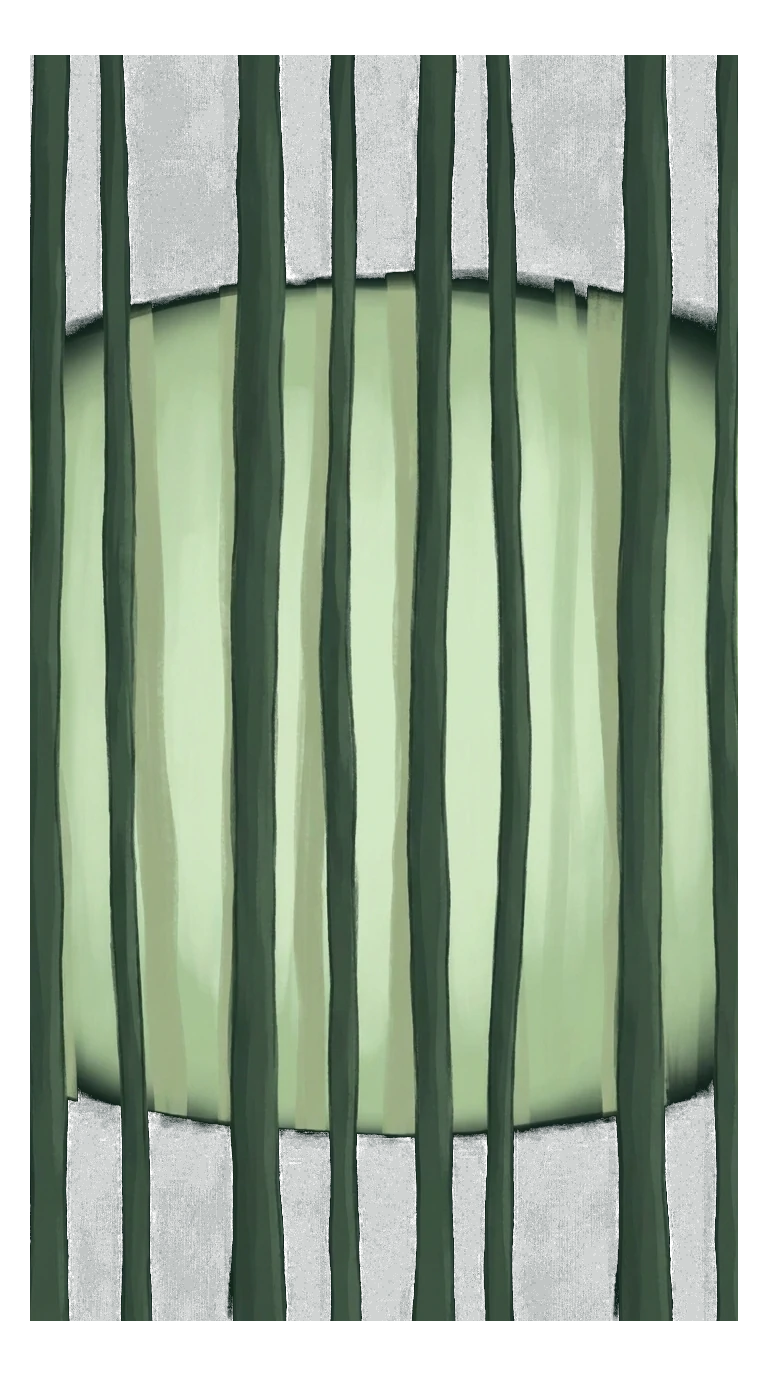
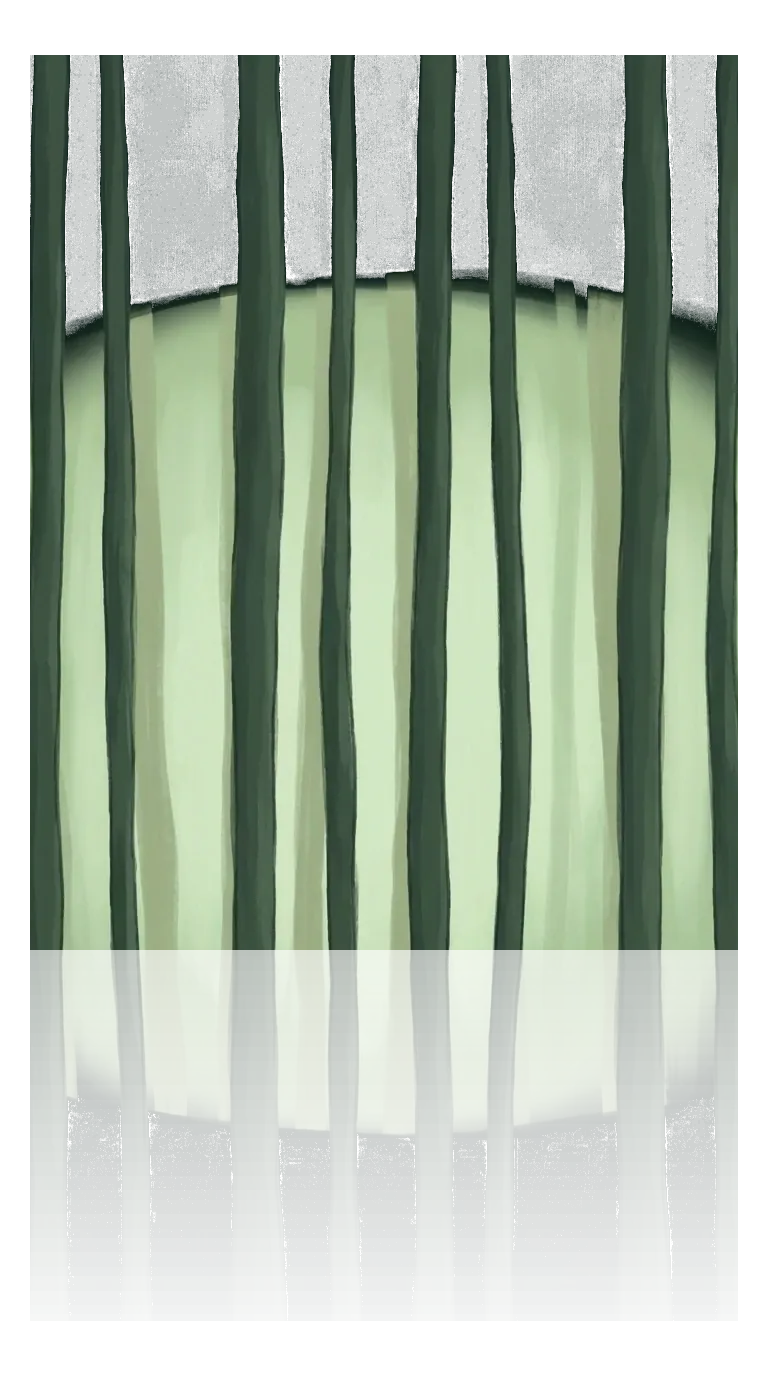
feat(assets): v4 视觉五层复验合格入包 + T05 收尾文档对齐
- v4 alpha 内容约束版替换 v3 入包 webp（381→260 KB）：
  trunks 底部 y>995 alpha ≤ 主体 max×35%、clearing 中带限位+羽化
- ZCode 程序化复验四项全过：无棋盘格（交替率 x56%/y32%、频谱峰值
  为整幅渐变）、四边 alpha 全 0 无白边/矩形底、层间 r∈[-0.22,+0.30]
  无重复、785m 合成边缘亮度 7.2≈void；复验数据录 ASSETS.md §一
- 模拟器 800m 全程走查证据入档 §20.9：检查点 0/102/268/427/676/782m、
  静默起点、80m 脚步解锁（piid started ~600ms 间隔）、240/600m 双
  MediaPlayer、停走逐像素冻结、来电中断已暂停+继续走、通关三播放器
  即时释放
- 修正过期表述：README/DEVELOPMENT §0/§20.8 注记/handoff 基线
  （真实音频已入库、v4 已复验、M1 因真人验收未做不宣布完成）

Changed region(s): [[0.0312, 0.6875, 0.9688, 0.9688]]

diff --git a/DEVELOPMENT.md b/DEVELOPMENT.md
@@ -13,23 +13,23 @@
 
 ---
 
-## 0. 当前进度（仓库核查，2026-10-12 · T04 后）
+## 0. 当前进度（仓库核查，2026-10-12 · T05 收尾后）
 
-**结论：T01–T04 已合入 main（最新核查 commit `808d872`，Actions 全绿）。** 森林 800 m 虚走可通关/放弃；实走与其他场景诚实标「暂未开放」。音频/振动仍为 stub，真实森林感官属 **T05**。以下依据源码与 CI，不把 HTML demo 当 Android 完成证据。
+**结论：T01–T05 已合入 main（最新核查见 §20.8 T05 记录，Actions 全绿）。** 森林 800 m 虚走可通关/放弃，感官层为真实引擎 + 真实素材；实走与其他场景诚实标「暂未开放」。标准 800 m 真人手动验收、真机耳机/来电与视觉复验未执行前，**M1 不宣布完成**。以下依据源码与 CI，不把 HTML demo 当 Android 完成证据。
 
 | 模块 | 已有内容 / 源码证据 | 与目标的差距 |
 | --- | --- | --- |
 | 工程与导航 | Home → 模式选择 → 会话 → 结果；Navigation / DataStore / SessionViewModel | 实走入口未开放；雨林/城市未进主流程 |
-| 场景 | schema v2 JSON（森林/沙漠/夜径）；SceneValidator；Loading/Ready/Error | 雨林/城市配置与入口未齐；素材多为显式开发占位 |
-| 会话 | `VirtualWalkController` + comfort_v1 摇杆、门禁、相位、ForestShell 黑幕起笔；后台暂停不偷跑 | 真实音视未接；地形越坎属 T07 |
+| 场景 | schema v2 JSON（森林/沙漠/夜径）；SceneValidator；Loading/Ready/Error | 雨林/城市配置与入口未齐；森林素材已真实化，沙漠/夜径仍显式占位 |
+| 会话 | `VirtualWalkController` + comfort_v1 摇杆、门禁、相位、ForestShell 黑幕起笔；后台暂停不偷跑 | 地形越坎属 T07 |
 | 结果页 | Completed / Abandoned，展示实际米数 | 用时折叠等打磨可继续 |
-| 感官 | 相位调度已跑；`AudioMixer` / `HapticEngine` 仍日志 stub | **T05**：真实 loop/脚步/振动与生命周期 |
-| 设置 | 振动、节奏提示、减少动效、按住前进、手动暂停等已接入偏好 | 步长/GPS 等属后续；静默秒数旧机制已移除 |
-| 实走与生命周期 | T04 不进入假计步会话 | **T06**：计步、权限、前台服务 |
-| 验证 | JVM 单测覆盖领域与虚走集成；GitHub Actions 打包/lint/test | 真机满距手测与耳机/来电属 T05/T09「待验证」 |
+| 感官 | `SensoryCoordinator` + `AndroidSensoryBackend`（SoundPool 脚步/MediaPlayer 循环/Vibrator）；森林真实素材入库（`REQUIRE_REAL_ASSETS` 放行）；焦点/耳机断连中断边界 + 可注入单测 | 振动待真机验证（模拟器无 HAL）；视觉五层待 MiniMax 修复批次复验 |
+| 设置 | 振动、节奏提示、减少动效、按住前进、手动暂停等已接入偏好 | 步长/GPS 等属后续 |
+| 实走与生命周期 | T04 起不进入假计步会话 | **T06**：计步、权限、前台服务 |
+| 验证 | JVM 单测覆盖领域、虚走集成与播放边界；GitHub Actions 打包/lint/test；模拟器 800 m 全程走查通过 | 真人标准 800 m 手动验收与真机耳机/来电属「待验证」 |
 | 设计包 | `design/` PRD 级设计 + HTML demo | demo 不接 Android 距离引擎；验收以本文件 + design 为准 |
 
-**下一交付物**：T05 森林真实音视素材与感官生命周期（达成 M1 可听体验）。其后 T06 实走、T07 恢复/地形/雨林、T08 四景、T09 真机与内测。
+**下一交付物**：T06 实走（计步、权限、前台服务）。T05 遗留待办：标准 800 m 手动验收、真机耳机/来电验证、MiniMax 修复批次视觉复验（见 ASSETS.md）。
 
 ---
 
@@ -773,7 +773,7 @@ stateDiagram-v2
 - [x] 森林 VisualShell 用渐变/剪影按 `fadeMeters` 展开；首版平地 + 缓坡，自动跳随后接入（T04+边界修复：程序剪影/渐变六层，opacity 严格来自 SensoryState；§5.7 地形速度系数含 1.5m 过渡已接入；gap_hop 按 T07 降级；MiniMax 第二批 3 层（tree_trunks/light_shows/clearing）验收合格已接入，其余层程序降级，见 ASSETS.md）
 - [x] 通关/放弃分结果；独立长按区 1.5 s + 取消反馈；返回键确认；米数可信、用时折叠（T04+边界修复：长按用单调帧时间、完成后松手不弹框、无障碍点击动作；模拟器实测放弃流程与结果页）
 - [x] 删除静默秒数设置；振动、节奏提示、减少动效、按住前进优先接入（T04：silenceSeconds/SessionClock 已删；四开关入设置页；按住前进持续按住同曲线同门禁）
-- [ ] 先保留音频 stub 验规则，再接森林真实环境 loop、步伐同步音效/振动；补音频焦点与耳机断连处理（T05：**机制已完成**——SensoryCoordinator 步伐节奏/停走冻结/everyNSteps/终态释放 + SoundPool/MediaPlayer/Vibrator 真实引擎 + 音频焦点与耳机断连暂停（不自动恢复行走），可注入单测；**真实音频素材未取得**，占位层静默跳过，见 ASSETS.md——素材入库前不算完成）
+- [ ] 先保留音频 stub 验规则，再接森林真实环境 loop、步伐同步音效/振动；补音频焦点与耳机断连处理（T05+收尾：**机制与素材均已完成**——SensoryCoordinator 步伐节奏/停走冻结/everyNSteps/终态释放 + SoundPool/MediaPlayer/Vibrator 真实引擎；播放边界可注入单测（焦点被拒不得恢复、中断后重申请、暂停停活跃脚步流、加载失败诊断、终态吸收迟到回调等 13 项）；森林真实素材入库：落叶脚步 ×6 + 虫鸣/远鸟无缝循环，CC0/CC BY 授权与 §14.1 处理记录见 ASSETS.md，`REQUIRE_REAL_ASSETS` 放行；音频焦点/耳机断连暂停且不自动恢复行走，模拟器来电实测「已暂停 + 继续走」新交互。**此条暂不勾选**：脚步振动模拟器无 HAL 待真机验证，且 M1 退出条件要求的标准 800 m 真人手动验收未执行——证据齐备前不宣布完成）
 - [x] 建 `ASSETS.md`：路径、来源、授权、处理规格与占位状态（T05：已建，含 MiniMax 首批视觉素材逐层验证记录与音频素材需求规格）
 
 **退出条件**：普通用户能完成一次森林 800 m 虚走；停走不涨距、不长景色；拉满慢于中段；未满结束为放弃；通关只触发一次；首页/后台返回不丢失或偷跑。至少有一版完整可听的森林体验供 M2 前体验访谈。
@@ -977,7 +977,7 @@ P0 = 下一闭环必需；P1 = 完整 MVP 必需、在闭环后交付；P2 = 有
 
 - **schema v2 落地**：`domain/scene/` 新增 `SceneConfig`（模型）、`SceneJsonParser`（kotlinx.serialization JsonElement 手写提取，带字段路径诊断，纯 JVM 无 org.json 依赖）、`SceneValidator`（数值/唯一性/排序/边界/层引用/淡入不越终/pathProfile 连续覆盖/前 10% 无 gap_hop/起点黑幕/叙事里程碑 ±5%/素材存在性）、`SceneDurationEstimator`（§6.1 时长推导，`suggestedMinutes` 删除）、`SceneLoader` + `SceneSource`（可注入数据源，Loading/Ready/Error）。新增依赖仅 `kotlinx-serialization-json:1.7.3`（运行时库，无 codegen 插件）与测试用 `junit:4.13.2`。
 - **三景迁移**：森林 800 m（相位 0/80/240/400/600/760，gap_hop 于 240–270 m）、沙漠 1200 m（0/120/360/600/900/1140）、夜径 700 m（0/70/200/350/525/665）；相位与地形剖面按各场景设计单页，不是 atSec×步速。旧 v1 读取（atSec/action/intervalMs/suggestedMinutes）已全部移除，无长期双读。
-- **占位策略**：音频/视觉素材当前全部为显式开发占位（`placeholder: "dev_*"`）；开发策略下合法并列入占位清单，`REQUIRE_REAL_ASSETS` 发布策略下三景全部不放行（有测试锁定该边界，防止把占位当成素材齐备）。
+- **占位策略**：音频/视觉素材当前全部为显式开发占位（`placeholder: "dev_*"`）；开发策略下合法并列入占位清单，`REQUIRE_REAL_ASSETS` 发布策略下三景全部不放行（有测试锁定该边界，防止把占位当成素材齐备）。（T05 收尾更新：森林已全真实素材并在 `REQUIRE_REAL_ASSETS` 下放行，沙漠/夜径仍按此占位策略约束，见 §20.9。）
 - **加载状态**：`SceneRepository` 静默吞错改为 `SceneLoadState`（任一场景解析/校验失败 → 汇总 Error，不静默丢场景）；首页渲染 Loading/Error（诊断明细+重试）/Ready；错误态不出现无解释空列表。会话仍是静默计时骨架——本阶段只完成配置契约，未实现行走功能。
 - **测试**：53 个 JVM 单测（解析 13、校验 23、时长 3、加载/重试 7、真实三景集成 7），含坏 JSON、未知 schema、旧 v1 拒绝、重复 ID、越界相位、错误引用、路径断裂/重叠/未覆盖、前 10% gap_hop、缺素材、占位双策略、时长校准（13/19/11 分钟与 §6.1 一致）、修复后重试恢复。证据以推送后 GitHub Actions 实际运行为准。
 
@@ -1010,16 +1010,44 @@ P0 = 下一闭环必需；P1 = 完整 MVP 必需、在闭环后交付；P2 = 有
 
 **T05 感官机制**（本提交）：
 - `domain/sensory/SensoryCoordinator`（纯 Kotlin，可注入随机源）：脚步由**有效距离**按 0.7 m 步幅积累触发（不按渲染帧、不靠时间）；环境 loop 相位触发后开始、每层只启动一次、按 fadeMs 淡入且**只在有新增有效距离时推进**（§8.2 停走冻结增益）；暂停冻结恢复继续不重启轨道；振动按 everyNSteps 跟步伐、尊重 vibrationEnabled；终态 release 后一切后端调用停止。
-- `engine/sensory/AndroidSensoryBackend`（真实引擎）：SoundPool 脚步变体（随机音高 0.97–1.03、音量 ±10% 由协调器决定）+ MediaPlayer 逐层环境循环（音量=淡入增益）+ Vibrator 波形模式表。**当前场景音频层全部为显式占位（无 file）：引擎跳过并在日志说明，不伪造声音**——素材入库后无需改代码即可播放。
+- `engine/sensory/AndroidSensoryBackend`（真实引擎）：SoundPool 脚步变体（随机音高 0.97–1.03、音量 ±10% 由协调器决定）+ MediaPlayer 逐层环境循环（音量=淡入增益）+ Vibrator 波形模式表。（当时占位层静默跳过属实；T05 收尾起森林已接入真实文件并重写为 prepareAsync/异步加载/暂停停流实现，见 §20.9。）
 - `SessionViewModel` 集成：每帧 `controller.frame() → drainPhaseEvents → coordinator.onFrame(dt, metersDelta, walking)`；音频焦点丢失（来电/切音乐/闪避）与耳机断连（ACTION_AUDIO_BECOMING_NOISY）→ 暂停会话与播放，**恢复不自动行走**（等待用户新输入）；终态/VM 销毁释放全部音频与振动资源。删除被取代的 `AudioMixer`/`HapticEngine` 日志 stub。
 - **测试**：SensoryCoordinatorTest 11 个（解锁前静默、步伐非帧率、静止/暂停无脚步、变体与音量范围、停走冻结、fadeMs=0 立即满增益、重复相位不重启、暂停恢复不重置、everyNSteps 与开关、终态释放后无声）。焦点/耳机断连为 Android 组件接线，**待真机验证**。
-- **素材**：MiniMax 视觉素材两批交付——第二批 3 层（tree_trunks/light_shows/clearing）验收合格并接入 forest.json/ForestShell（139+20+43 KB，opacity 仍由 SensoryState 驱动、视差滑动钳制在图片溢出宽度内，单图非无缝为已知限制）；tree_outline（过稀）/leaf_path（内容溢出）/traveler（构图全幅）不合格待重生成，保持程序降级。真实音频素材未取得，ASSETS.md 记录需求规格与来源要求。
-- **M1 状态**：除「森林真实环境 loop/脚步素材」待素材入库外，M1 其余项均已完成并有证据；**M1 尚未达成**（退出条件要求完整可听的森林体验）。
+- **素材**：MiniMax 视觉素材两批交付——第二批 3 层（tree_trunks/light_shows/clearing）验收合格并接入 forest.json/ForestShell（139+20+43 KB，opacity 仍由 SensoryState 驱动、视差滑动钳制在图片溢出宽度内，单图非无缝为已知限制）；tree_outline（过稀）/leaf_path（内容溢出）/traveler（构图全幅）不合格待重生成，保持程序降级。真实音频素材未取得，ASSETS.md 记录需求规格与来源要求。（T05 收尾更新：第三批 outline/leaf_path 已达标、五层入包；真实音频已按 CC0/CC BY 授权入库；棋盘格/透明度问题使五层整体标记待复验，见 §20.9 与 ASSETS.md。）
+- **M1 状态**：除「森林真实环境 loop/脚步素材」待素材入库外，M1 其余项均已完成并有证据；**M1 尚未达成**（退出条件要求完整可听的森林体验）。（T05 收尾更新：素材与机制已齐，模拟器全程可听可走通关；但标准 800 m 真人手动验收、真机耳机/来电、振动实测未执行，**M1 仍不宣布完成**，见 §20.9。）
 
 **T05 补充（2026-10-13 晚）**：
 - **性能修复**（f599a6a）：帧循环此前每帧无条件更新 walk StateFlow，静止/暂停/终态仍 60fps 全树重组；改为快照相等则跳过推送，静止期零重组（慢设备上手势分发曾被饿死）。
 - **v3 图层接入**（1baef18）：交付方按 ASSETS.md 反馈重做（见 docs/visual-assets-handoff.md，共 14 次生成、凭据 host-managed）；tree_outline（覆盖 48%）与 leaf_path（上 70% 全空+底部地面带）达标接入，森林五个视觉层全部为真实素材（共 381 KB）；traveler 三轮均满帧（81%）不合格，保持程序旅人。
 - **模拟器全链路复验**（Pixel 6 / API 36，全新安装）：米数轻触开关（"已走 X 米"↔提示）、摇杆甜点行走（62s 保持 → 88m，≈1.16 m/s 符合曲线与地形系数）、摇杆区长按 2.2s 不触发放弃、**真实图层按距离解锁**（117m 处树冠区亮度 7.8→31.8，近地区不变）、暂停轻点→继续/放弃确认→返回会话、放弃控件长按 1.9s→结果页诚实显示「这次走了 117 m」+用时折叠。此前"触摸失效"为误报（全新安装默认选中 700m 夜径致模式页开始被禁用 + 一次安装未生效）。待真机：实体耳机/来电焦点、锁屏、标准 800m 人工通关。
+
+### 20.9 T05 收尾记录（2026-10-13 · 本提交）
+
+**一、中断与播放边界**（`domain/sensory/PlaybackSupport` 四组件，纯 Kotlin 可注入；`AndroidSensoryBackend` 重写；`SessionViewModel` 焦点门控）：
+- `LoopPlayerState`：MediaPlayer `prepareAsync` 异步就绪（不再同步 prepare 阻塞主线程）；PREPARING 期间请求暂停→就绪后保持暂停；PREPARING 期间释放→迟到的 `onPrepared` 被吸收不复活播放；setGain 缓存到就绪后生效。
+- `StepLayerLoadState`：SoundPool 单一全局 `OnLoadCompleteListener` 在 init 注册并分发到所有层（后注册覆盖先注册的坑已规避）；只轮换到已加载成功的变体，加载失败给出带文件名的诊断日志；失败层静默跳过不阻塞其他层。
+- `AudioFocusGate` + `SessionViewModel.attemptAudioResume()`：焦点丢失→暂停并标记需重申请；恢复时**重新申请并检查结果**，仅 `AUDIOFOCUS_REQUEST_GRANTED` 才恢复音频；焦点被拒不得出声（单测锁定）。
+- `ActiveStepStreams`：暂停/中断停止全部在播脚步流；恢复**不补播**旧流，只随新步伐出声（单测锁定）。
+- 暂停 UI 修正：弃用误导文案「摇一摇摇杆继续」，改为居中「已暂停 + 点『继续走』后，摇杆重新给输入才会前进 + 继续走按钮」；`resumeAfterInterruption()` = 恢复状态机 + 重申请焦点 + 推送快照，回到 Ready 等新输入。
+- 测试：`PlaybackSupportTest` 13 个（准备期暂停/释放、迟到回调吸收、加载失败诊断、焦点被拒、重申请获准恢复、暂停停活跃流不补播等），加上既有 189 个测试全部保留。
+
+**二、真实森林音频**（`assets/audio/`，共 2360 KB ≤ 3 MB 预算）：
+- `forest_insects.ogg` 63s 无缝循环：Wikimedia Commons「Waidachswald Oberschefflenz Abend」（User:Karlunun，**CC0**）；60s 段 + 3s 三角交叉淡入接缝（filter_complex asplit/atrim/acrossfade/concat），两遍 loudnorm −24 LUFS / TP −3 dBTP。
+- `forest_birds.ogg` 63s 无缝循环：Commons「Dawn chorus at Glencairnie」（DivyaCM，**CC BY 4.0**）；同规格处理。
+- `forest_step_01..06.ogg` 400ms one-shot ×6：Gravity Sound 落叶/枯枝素材（**CC BY 4.0**）；numpy 20ms RMS 包络定切点、8ms 淡入出、−18.1 LUFS（环境音上方约 6dB）；编码 `-strict -2 -qscale:a 3`（Homebrew ffmpeg 无 libvorbis，实验性 native 编码器为已记录偏差；编码器仅立体声→脚步为双单声道）。
+- `forest.json` 三层均指向真实文件；`MigratedSceneConfigsTest` 更新为「森林真实素材 `REQUIRE_REAL_ASSETS` 放行，沙漠/夜径占位不放行」。来源链接与逐项授权记录见 ASSETS.md。
+
+**三、视觉复验（v4 修复轮）**：v3 入包时按指示标记「五层待复验」；交付方随后提交 v4 alpha 内容约束版（trunks 底部 ≤35% 上限、clearing 中带限位 + 羽化，0 次 API 调用，候选存 `design/assets/forest/candidates/v4/`）。ZCode 按 §14 标准程序化复验**全部通过**：五层棋盘格同/跨相位差均 <3.2 或同相≥跨相，合成图梯度符号交替率 x 56%/y 32%（棋盘特征需 >90%），频谱峰值在整幅纵向渐变而非 8px 频率；四边 alpha 均值全 0，785m 全层合成于 #060806 边缘亮度 7.2≈void、无白边无矩形底；层间亮度相关性 r∈[−0.22,+0.30] 无重复内容；两项 alpha 约束实测落实（89≤89、带外 0）。**v4 五层替换入包**（381→260 KB），forest.json/渲染机制/门禁/fadeMeters 未动，opacity 仍由 SensoryState 驱动，锁定层不可见与 reduceMotion 逻辑不变；traveler 程序绘制为正式方案。复验数据与合成预览见 ASSETS.md §一；真人视觉走查归入待验证清单。
+
+**四、模拟器 800 m 全程走查**（Pixel 6 / API 36 / CI 产物 app-debug.apk 全新安装，检查点截图存 `.local-verify/t5final/`）：
+- 检查点：0m 黑幕 / 102m 轮廓树木 / 268m 树干林光 / 427m 落叶路径 / ~676m 透光光柱+远鸟 / 782m 林间空地；画面均值亮度 8.4→20.4→73.7→83.9→84.2 随米数单调展开。
+- 静默起点：0–79m 应用 SoundPool 播放器状态 idle、logcat 无 SensoryBackend 告警；80m 后脚步 one-shot 每 ~600ms（≈1.05 m/s ÷ 0.7m 步幅）密集 started，与解锁门吻合。
+- 环境音：240m 创建并立即 started 的 MediaPlayer（虫鸣，48kHz 立体声）；600m 第二个 MediaPlayer（远鸟）并行 started。
+- 停走冻结：停走后间隔 3s 两帧截图逐像素差 0；脚步事件止于停走时刻。
+- 来电中断：`emu gsm call` → 通话界面；取消后回应用用「已暂停 + 继续走」新 UI、暂停按钮禁用、米数冻结 786m；暂停态按住摇杆 5s 米数不变（拒绝输入）；点「继续走」后新摇杆输入恢复前进。
+- 通关与清理：786→800m 通关进入结果页（「森林 · 走到了 · 走完 800 m」）；通关瞬间三个播放器（两 MediaPlayer + SoundPool）全部 stopped/released，活跃播放器列表为空，进程存活无泄漏。
+
+**五、仍待验证（M1 不宣布完成的原因）**：标准 800 m 真人手动验收（不用快进/不用模拟器脚本）；真机实体耳机断连与真实来电焦点；锁屏/通知栏返回；脚步振动（模拟器无 vibrator HAL）；v4 视觉的真人最终走查。
 
 ---
 

diff --git a/ASSETS.md b/ASSETS.md
@@ -3,34 +3,38 @@
 > 规则（DEVELOPMENT.md §14）：无许可不进包；测试音、静音、合成占位不得描述为真实素材；
 > AI 生成图片按生成服务条款记录，不自行标为 CC0。素材是否可播放/渲染以实际文件与验证为准。
 
-## 一、森林视觉素材（MiniMax 生成，v1/v2/v3 三批交付）
+## 一、森林视觉素材（MiniMax 生成，v1/v2/v3/v4 四批交付）
 
-**状态：v3 后 5 层入包（待复验）；traveler 三轮未达标保持程序绘制。**
-（2026-10-13：交付方正在修复棋盘格残留与透明蒙版；当前包内文件经棋盘格相位检测未见异常，但以修复稿复验为最终结论，暂不宣称五层全部合格。）
-交付三批：v1/v2（2026-10-12）+ v3 按 ASSETS.md 反馈重做（2026-10-13，
-见 `docs/visual-assets-handoff.md`，生成 14 次、凭据 host-managed）。
-逐层验证（覆盖率 = alpha>60 像素占比；验证脚本指标留档于交付记录）：
+**状态：v4 五层复验合格、已替换入包（260 KB）；traveler 采纳程序绘制为正式方案。**
+（历史：v3 入包时标记「待复验」；2026-10-13 v4 修复轮交付 alpha 内容约束版——trunks 底部 y>950 alpha ≤ 主体 max×35%、clearing 限 y=200–650 中带 + 40px 羽化——ZCode 按 §14 复验标准程序化检验全部通过后替换，见下方复验记录。）
+交付批次：v1/v2（2026-10-12）+ v3 按 ASSETS.md 反馈重做 + v4 内容修正轮（2026-10-13，
+见 `docs/visual-assets-handoff.md`，生成 14 次、v4 纯后处理 0 次调用、凭据 host-managed）。
 
-| 层 | 当前验证 | 结论 |
+| 层 | 当前入包（v4） | 结论 |
 | --- | --- | --- |
 | void | 纯色层（程序） | — |
-| tree_outline | **v3**：覆盖 48%，上密（树冠带 0.55–0.92）下空，无地面溢出 | **合格，已接入**（82 KB） |
-| tree_trunks | **v2**：覆盖 73%，全高树干中带密集 | **合格，已接入**（139 KB） |
-| leaf_path | **v3**：覆盖 32%，上 70% 全空 + 底部 30% 地面带 | **合格，已接入**（97 KB） |
-| light_shows | **v2**：覆盖 3%，稀疏光效 | **合格，已接入**（20 KB） |
-| clearing | **v2**：覆盖 19%，30–50% 高度柔光 | **合格，已接入**（43 KB） |
-| traveler_idle | **v3 仍 81% 满帧**（要求角色约占画布 30% 且四周留白；连续三轮未达） | 不合格，保持程序旅人；v1/v2 原图存 raw_v1/raw_v2 |
+| tree_outline | 覆盖 49%，上密下空，无地面溢出 | **复验合格**（66 KB） |
+| tree_trunks | 覆盖 80%，全高树干；底部 alpha 已按 35% 上限约束（实测 89≤89） | **复验合格**（85 KB） |
+| leaf_path | 覆盖 32%，上 70% 全空 + 底部地面带 | **复验合格**（63 KB） |
+| light_shows | 覆盖 3.4%，稀疏光柱 | **复验合格**（17 KB） |
+| clearing | 覆盖 17.7%，带外 alpha=0 实测，中带柔光 | **复验合格**（30 KB） |
+| traveler_idle | v1–v3 均 81% 满帧不合格 | **程序绘制为正式方案**（`ForestShell.drawTraveler`；合格静态角色也不冒充动画） |
 | style_ref / connectivity_test | 参考/连通性测试，非游戏层 | 不入包 |
 
-- **视觉包体**：5 层 webp 共约 381 KB（预算 ≤2 MB/景 ✓）。
+**v4 复验记录（ZCode 程序化检验，2026-10-13）**：
+- 棋盘格：五层同/跨相位 8px 差均 <3.2 或同相≥跨相；合成图梯度符号交替率 x 56% / y 32%（棋盘特征需 >90%）；频谱峰值在整幅纵向渐变（k=(1,0)）而非 8px 频率——**无棋盘格残留**。
+- 白边/矩形底：五层四边 alpha 均值全 0.00；785m 全层合成于 #060806 后边缘亮度 7.2（≈void 6.6）、边缘 >30 亮度像素 0——**无白边、无矩形底**。
+- 层内容重复：两两亮度 Pearson r ∈ [−0.22, +0.30]——**无重复层**。
+- 合成预览：`.local-verify/t5final/v4-composite-785m.png`（本地验证件）；交付方另有 6 阶段合成（`candidates/v4/stage_compose/`）。
+- 待复核（不阻塞）：真机/真人最终视觉走查归入 M1 待验证清单。
+
+- **视觉包体**：5 层 webp 共 260 KB（预算 ≤2 MB/景 ✓，较 v3 381 KB 再省 121 KB）。
 - **渲染方式**（`ForestShell`）：带 `asset` 的层解码一次、按高度 cover 铺满、
   透明度严格来自 SensoryState（米数纯函数）、parallax 层在图片超出屏幕的
   宽度内滑动；解码失败自动回退程序渲染。**已知限制**：单图非无缝，
-  视差滑满后保持静态（待可平铺版本）。
+  视差滑满后保持静态；v4 另附 tileable 版候选未启用（当前 cover 模式 overflow≈0，见交付记录 §7.2）。
 - **授权**：MiniMax 图像生成服务输出（mcode-tools connector，凭据
   host-managed），按其服务条款记录；不得标 CC0。
-- **遗留**：traveler 若第四轮交付仍满帧，建议改为「程序绘制为正式方案」
-  或交付方提供局部裁剪的透明 PNG。
 
 ## 二、森林音频素材（2026-10-13 入包，真实素材）
 

diff --git a/docs/zcode-handoff.md b/docs/zcode-handoff.md
@@ -10,13 +10,14 @@
 4. T01–T08 是可由开发工具执行的工作；T09 还包含真人内测和实体手机验证。无法实际执行的部分必须标记「待验证」，不能据此宣称最终 MVP 已验收。
 5. 本地只需能编辑源码和提交代码；JDK、SDK、Gradle、测试和 APK 打包由 GitHub Actions 执行。本地缺 SDK/模拟器不阻塞开发；云端失败按日志修复。日历工期等 T04 跑通闭环后再估算。
 
-## 当前基线（2026-10-13，T05 机制后）
+## 当前基线（2026-10-13，T05 收尾后）
 
 - 技术栈：Kotlin、Jetpack Compose、Navigation、DataStore、kotlinx-serialization-json；minSdk 26，compileSdk / targetSdk 35。
-- 构建：由 GitHub Actions 云端执行（`.github/workflows/android.yml`）；T04 边界修复绿跑 [run 38338455403](https://github.com/skydream9527-ctrl/sense-walk/actions/runs/38338455403)（`0a7165f`）。本地不要求完整 Android 环境（见 `docs/BUILD.md`）。用户已确认此交付方式（DEVELOPMENT.md §21.1）。
-- **T01–T04 已完成**（T04 含边界修复：地形速度系数 §5.7、指针清理、摇杆实体区域、终态清理）；**T05 感官机制已完成**：SensoryCoordinator（步伐节奏/停走冻结/everyNSteps/终态释放，11 个可注入单测）+ SoundPool/MediaPlayer/Vibrator 真实引擎 + 音频焦点与耳机断连暂停。**T05/M1 未完成的部分：真实音频素材未取得（占位层静默跳过）；MiniMax 视觉素材 3 层（trunks/light_shows/clearing）已验收接入，其余层程序降级待重生成（见 ASSETS.md）。**
-- 待做：合格森林音频与视觉素材入库并替换占位（T05 收尾）；T06 计步/前台服务、T07 快照恢复/地形/雨林、T08 四景、T09 真机与内测。标准 800 m 手动验收与真机音频焦点/耳机断连验证仍为待验证项。
-- 已有 HTML 是设计原型，不能当 Android 功能完成的证据。下一阶段视素材情况发送 **T05 收尾** 或 **T06** 阶段提示词；不要重做 T01–T04。
+- 构建：由 GitHub Actions 云端执行（`.github/workflows/android.yml`）；T05 收尾绿跑见 DEVELOPMENT.md §20.9（最新提交与 run 号以该节为准）。本地不要求完整 Android 环境（见 `docs/BUILD.md`）。用户已确认此交付方式（DEVELOPMENT.md §21.1）。
+- **T01–T04 已完成**（T04 含边界修复：地形速度系数 §5.7、指针清理、摇杆实体区域、终态清理）；**T05 机制与收尾均已完成**：SensoryCoordinator + SoundPool/MediaPlayer/Vibrator 真实引擎 + 中断播放边界（prepareAsync 异步就绪、加载失败诊断、焦点重申请、暂停停活跃脚步流不补播、终态吸收迟到回调，13 个可注入单测）；**森林真实音频已入库**（落叶脚步 ×6 + 虫鸣/远鸟无缝循环，CC0/CC BY 授权可查，`REQUIRE_REAL_ASSETS` 放行，处理记录见 ASSETS.md）；**视觉五层为 v4 修复版，ZCode 程序化复验合格（棋盘格/白边/矩形底/层重复四项）并替换入包 260 KB**，旅人为程序绘制正式方案，复验数据见 ASSETS.md §一；模拟器 800 m 全程走查通过（含来电中断「已暂停」新交互与通关三播放器即时释放，证据见 DEVELOPMENT.md §20.9）。
+- **M1 不宣布完成**：标准 800 m 真人手动验收、真机实体耳机/来电焦点、锁屏返回、脚步振动（模拟器无 HAL）、v4 视觉真人走查仍为待验证项。
+- 待做：T06 计步/前台服务、T07 快照恢复/地形/雨林、T08 四景、T09 真机与内测；以及上述 M1 待验证清单。
+- 已有 HTML 是设计原型，不能当 Android 功能完成的证据。下一阶段发送 **T06** 阶段提示词（或先补 M1 待验证项）；不要重做 T01–T05。
 
 ## 开发计划
 

diff --git a/README.md b/README.md
@@ -26,7 +26,7 @@
 
 ## 当前状态（2026-10-12）
 
-Kotlin + Jetpack Compose。**T01–T04 已完成**：云端打包与 CI；schema v2 配置契约（严格类型校验/加载态/重试）；纯 Kotlin 领域层（comfort_v1 保形曲线、s_pos/s_best 有效距离、门禁、相位调度、状态机，含 §5.7 地形速度系数）；**森林 800 m 虚走 UI 闭环**（模式选择、浮动摇杆、长按放弃、黑幕层层展开、后台不偷跑，仅森林虚走开放）。**T05 感官机制已完成**：步伐驱动脚步/淡入冻结/everyNSteps 振动 + 真实播放引擎 + 音频焦点/耳机断连处理；**真实音频素材待补**（占位层静默跳过）；视觉 3 层已接入 MiniMax 合格图层，其余程序降级（见 ASSETS.md）。计步、前台服务、恢复与四景属后续阶段；HTML demo 是设计原型。
+Kotlin + Jetpack Compose。**T01–T04 已完成**：云端打包与 CI；schema v2 配置契约（严格类型校验/加载态/重试）；纯 Kotlin 领域层（comfort_v1 保形曲线、s_pos/s_best 有效距离、门禁、相位调度、状态机，含 §5.7 地形速度系数）；**森林 800 m 虚走 UI 闭环**（模式选择、浮动摇杆、长按放弃、黑幕层层展开、后台不偷跑，仅森林虚走开放）。**T05 感官机制与收尾已完成**：步伐驱动脚步/淡入冻结/everyNSteps 振动 + SoundPool/MediaPlayer/Vibrator 真实引擎 + 音频焦点/耳机断连中断边界（暂停拒绝摇杆、恢复仅凭新输入、终态释放，可注入单测）；**森林真实音频素材已入库**（落叶脚步 ×6 + 虫鸣/远鸟循环，CC0/CC BY 授权可查，`REQUIRE_REAL_ASSETS` 发布策略放行，来源与处理记录见 ASSETS.md）；视觉五层为 v4 修复版并经程序化复验合格入包（棋盘格/白边/矩形底/层内容重复四项检验通过，260 KB；真人视觉走查仍列待验证）；旅人为程序绘制正式方案。模拟器 800 m 全程走查已通过（静默起点、80 m 脚步解锁、240/600 m 环境音、停走逐像素冻结、来电中断「已暂停」、通关即释放全部播放器）；**标准 800 m 真人手动验收与真机耳机/来电验证仍待执行，M1 不据此宣布完成**。计步、前台服务、恢复与四景属后续阶段；HTML demo 是设计原型。
 
 接下来按验收推进：M0 工程与 schema v2 → M1 森林 800 m 虚走闭环 → M2 实走、前台服务和恢复 → M3 四景内容与内测。GPS 辅助等放后续。具体任务及构建验证状态见开发计划。
 
